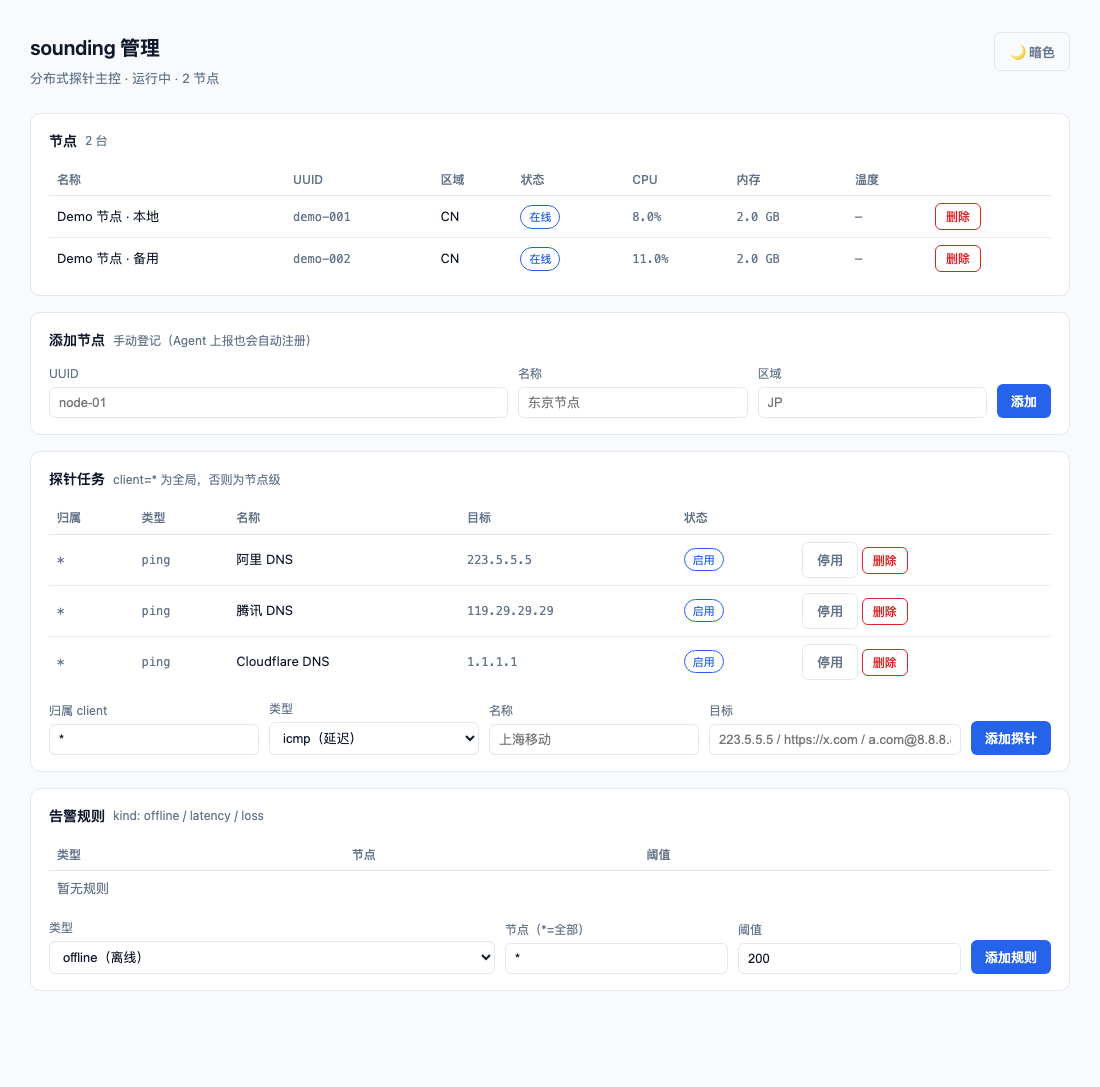
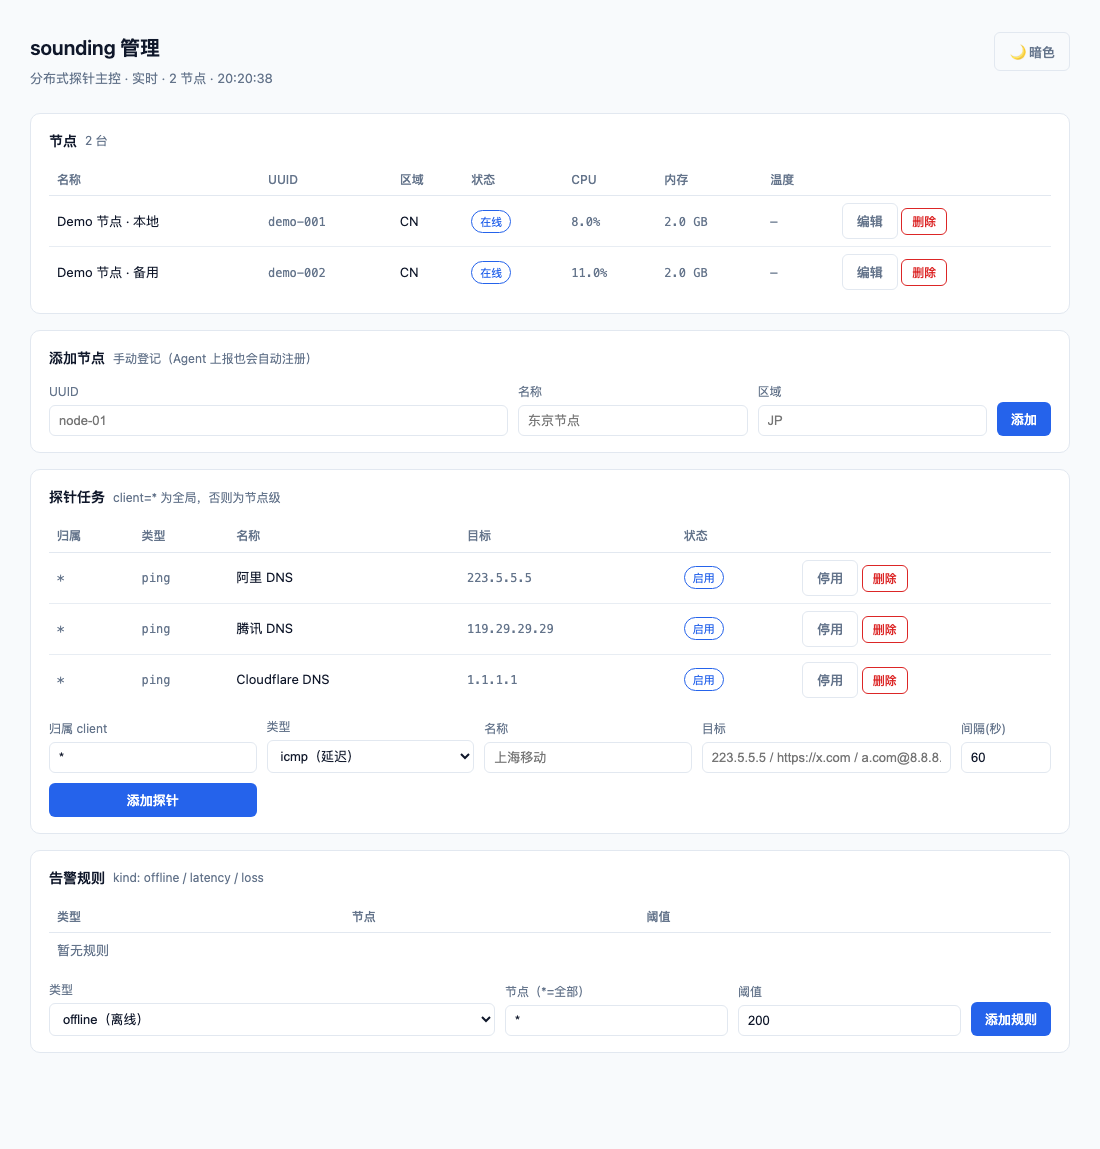
feat(①+②): 管理页 WS 实时推送（3s statuses+nodes，失败回退轮询）+ 节点编辑 + 探针间隔配置

diff --git a/internal/adminui/index.html b/internal/adminui/index.html
@@ -83,6 +83,7 @@
       </div>
       <div><label>名称</label><input id="p-name" placeholder="上海移动"></div>
       <div><label>目标</label><input id="p-target" placeholder="223.5.5.5 / https://x.com / a.com@8.8.8.8"></div>
+      <div><label>间隔(秒)</label><input id="p-interval" type="number" value="60" style="width:90px"></div>
       <button onclick="addProbe()">添加探针</button>
     </div>
     <div class="status" id="probe-status"></div>
@@ -128,18 +129,8 @@ function api(path, opts = {}) {
 async function loadNodes() {
   try {
     const d = await api('/api/admin/nodes');
-    const rows = Object.entries(d.nodes || {});
-    document.querySelector('#nodes tbody').innerHTML = rows.map(([uuid, n]) => {
-      const st = (d.statuses && d.statuses[uuid]) || {};
-      const cpu = st.cpu != null ? st.cpu.toFixed(1) + '%' : '—';
-      const ram = st.ram != null ? (st.ram / 1073741824).toFixed(1) + ' GB' : '—';
-      const temp = st.temp ? st.temp.toFixed(1) + '°C' : '—';
-      return `<tr><td>${n.name || '—'}</td><td><code>${uuid}</code></td><td>${n.region || '—'}</td>
-        <td>${st.online ? '<span class="tag on">在线</span>' : '<span class="tag">离线</span>'}</td><td><code>${cpu}</code></td><td><code>${ram}</code></td><td><code>${temp}</code></td>
-        <td><button class="danger" onclick="delNode('${uuid}')">删除</button></td></tr>`;
-    }).join('') || '<tr><td colspan="8" class="muted">暂无节点</td></tr>';
-    document.getElementById('nodeCount').textContent = rows.length + ' 台';
-    document.getElementById('stat').textContent = '运行中 · ' + rows.length + ' 节点';
+    renderNodes(d.nodes, d.statuses);
+    document.getElementById('stat').textContent = '运行中 · ' + Object.keys(d.nodes || {}).length + ' 节点';
   } catch (e) { document.getElementById('stat').textContent = '需要管理 Token'; }
 }
 async function loadProbes() {
@@ -162,12 +153,23 @@ async function loadAlerts() {
       || '<tr><td colspan="4" class="muted">暂无规则</td></tr>';
   } catch (e) {}
 }
+async function editNode(uuid) {
+  const d = await api('/api/admin/nodes');
+  const n = (d.nodes || {})[uuid];
+  if (!n) return;
+  document.getElementById('n-uuid').value = uuid;
+  document.getElementById('n-name').value = n.name || '';
+  document.getElementById('n-region').value = n.region || '';
+  document.getElementById('n-uuid').setAttribute('readonly', 'readonly');
+  document.getElementById('node-status').textContent = '编辑模式（修改后点添加保存）';
+}
 async function addNode() {
   const uuid = document.getElementById('n-uuid').value.trim();
   const name = document.getElementById('n-name').value.trim();
   if (!uuid || !name) return;
   await api('/api/admin/nodes', { method: 'POST', body: JSON.stringify({ uuid, name, region: document.getElementById('n-region').value.trim() }) });
-  document.getElementById('node-status').textContent = '✓ 已添加';
+  document.getElementById('node-status').textContent = '✓ 已保存';
+  document.getElementById('n-uuid').removeAttribute('readonly');
   loadNodes();
 }
 async function addProbe() {
@@ -175,7 +177,7 @@ async function addProbe() {
   const name = document.getElementById('p-name').value.trim();
   const target = document.getElementById('p-target').value.trim();
   if (!name || !target) return;
-  await api('/api/admin/probes', { method: 'POST', body: JSON.stringify({ client, name, target, type: document.getElementById('p-type').value, enabled: true }) });
+  await api('/api/admin/probes', { method: 'POST', body: JSON.stringify({ client, name, target, type: document.getElementById('p-type').value, interval_sec: Number(document.getElementById('p-interval').value) || 60, enabled: true }) });
   document.getElementById('probe-status').textContent = '✓ 已添加';
   loadProbes();
 }
@@ -205,8 +207,51 @@ async function delAlert(kind, node) {
   await api('/api/admin/alerts', { method: 'DELETE', body: JSON.stringify({ kind, node }) });
   loadAlerts();
 }
+// ===== 实时通道（WS 推送 statuses+nodes，失败回退轮询）=====
+let ws = null;
+let wsRetry = 0;
+function connectWS() {
+  try {
+    const proto = location.protocol === 'https:' ? 'wss:' : 'ws:';
+    ws = new WebSocket(proto + '//' + location.host + '/rpc2');
+    ws.onmessage = (ev) => {
+      try {
+        const msg = JSON.parse(ev.data);
+        if (msg.method === 'sounding.push' && msg.params) {
+          renderNodes(msg.params.nodes, msg.params.statuses);
+          document.getElementById('stat').textContent = '实时 · ' + Object.keys(msg.params.nodes || {}).length + ' 节点 · ' + new Date(msg.params.time).toLocaleTimeString();
+        }
+      } catch (e) {}
+    };
+    ws.onclose = () => {
+      ws = null;
+      wsRetry++;
+      if (wsRetry <= 5) setTimeout(connectWS, 3000);
+      else setInterval(loadNodes, 10000); // 长期失败回退轮询
+    };
+    ws.onerror = () => { if (ws) ws.close(); };
+  } catch (e) { setInterval(loadNodes, 10000); }
+}
+
+// 抽出渲染函数（WS 推送与 HTTP 加载共用）
+function renderNodes(nodes, statuses) {
+  const rows = Object.entries(nodes || {});
+  document.querySelector('#nodes tbody').innerHTML = rows.map(([uuid, n]) => {
+    const st = (statuses && statuses[uuid]) || {};
+    const cpu = st.cpu != null ? st.cpu.toFixed(1) + '%' : '—';
+    const ram = st.ram != null ? (st.ram / 1073741824).toFixed(1) + ' GB' : '—';
+    const temp = st.temp ? st.temp.toFixed(1) + '°C' : '—';
+    return `<tr><td>${n.name || '—'}</td><td><code>${uuid}</code></td><td>${n.region || '—'}</td>
+      <td>${st.online ? '<span class="tag on">在线</span>' : '<span class="tag">离线</span>'}</td>
+      <td><code>${cpu}</code></td><td><code>${ram}</code></td><td><code>${temp}</code></td>
+      <td><button class="ghost" onclick="editNode('${uuid}')">编辑</button>
+          <button class="danger" onclick="delNode('${uuid}')">删除</button></td></tr>`;
+  }).join('') || '<tr><td colspan="8" class="muted">暂无节点</td></tr>';
+  document.getElementById('nodeCount').textContent = rows.length + ' 台';
+}
+
 loadNodes(); loadProbes(); loadAlerts();
-setInterval(loadNodes, 10000);
+connectWS();
 </script>
 </body>
 </html>

diff --git a/internal/api/admin.go b/internal/api/admin.go
@@ -11,7 +11,7 @@ type AdminEndpoint struct {
 		AdminNodes() (map[string]Client, error)
 		AdminUpsertNode(n Client) error
 		AdminProbeTasks() ([]AdminProbe, error)
-		AdminUpsertProbe(client, target, name, typ string, enabled bool) error
+		AdminUpsertProbeInterval(client, target, name, typ string, intervalSec float64, enabled bool) error
 		AdminDeleteProbe(client, name string) error
 		AdminDeleteNode(uuid string) error
 		AdminProbeTaskNames(client string) ([]string, error)
@@ -46,7 +46,7 @@ func NewAdminEndpoint(s interface {
 	AdminNodes() (map[string]Client, error)
 	AdminUpsertNode(n Client) error
 	AdminProbeTasks() ([]AdminProbe, error)
-	AdminUpsertProbe(client, target, name, typ string, enabled bool) error
+	AdminUpsertProbeInterval(client, target, name, typ string, intervalSec float64, enabled bool) error
 	AdminDeleteProbe(client, name string) error
 	AdminDeleteNode(uuid string) error
 	AdminProbeTaskNames(client string) ([]string, error)
@@ -166,11 +166,12 @@ func (h *AdminEndpoint) ServeHTTP(w http.ResponseWriter, r *http.Request) {
 		}
 		if r.Method == http.MethodPost {
 			var p struct {
-				Client  string `json:"client"`
-				Target  string `json:"target"`
-				Name    string `json:"name"`
-				Type    string `json:"type"`
-				Enabled *bool  `json:"enabled"`
+				Client      string  `json:"client"`
+				Target      string  `json:"target"`
+				Name        string  `json:"name"`
+				Type        string  `json:"type"`
+				IntervalSec float64 `json:"interval_sec"`
+				Enabled     *bool   `json:"enabled"`
 			}
 			if err := json.NewDecoder(r.Body).Decode(&p); err != nil {
 				http.Error(w, "bad payload", http.StatusBadRequest)
@@ -180,7 +181,11 @@ func (h *AdminEndpoint) ServeHTTP(w http.ResponseWriter, r *http.Request) {
 			if p.Enabled != nil {
 				enabled = *p.Enabled
 			}
-			if err := h.store.AdminUpsertProbe(p.Client, p.Target, p.Name, p.Type, enabled); err != nil {
+			interval := p.IntervalSec
+			if interval <= 0 {
+				interval = 60
+			}
+			if err := h.store.AdminUpsertProbeInterval(p.Client, p.Target, p.Name, p.Type, interval, enabled); err != nil {
 				http.Error(w, err.Error(), http.StatusInternalServerError)
 				return
 			}

diff --git a/internal/store/adapters.go b/internal/store/adapters.go
@@ -259,18 +259,26 @@ func (s *Store) AdminProbeTasks() ([]api.AdminProbe, error) {
 	return out, rows.Err()
 }
 
-// AdminUpsertProbe 管理视角创建/更新探针（typ: icmp|tcp|http|dns）。
+// AdminUpsertProbe 管理视角创建/更新探针（默认 60s）。
 func (s *Store) AdminUpsertProbe(client, target, name, typ string, enabled bool) error {
+	return s.AdminUpsertProbeInterval(client, target, name, typ, 60, enabled)
+}
+
+// AdminUpsertProbeInterval 创建/更新探针（可指定间隔秒）。
+func (s *Store) AdminUpsertProbeInterval(client, target, name, typ string, intervalSec float64, enabled bool) error {
 	if typ == "" {
 		typ = "icmp"
+	}
+	if intervalSec <= 0 {
+		intervalSec = 60
 	}
 	e := 0
 	if enabled {
 		e = 1
 	}
-	_, err := s.db.Exec(`INSERT INTO probe_tasks (client, target, name, type, interval_sec, enabled) VALUES (?,?,?,?,60,?)
-		ON CONFLICT(client, name) DO UPDATE SET target=excluded.target, type=excluded.type, enabled=excluded.enabled`,
-		client, target, name, typ, e)
+	_, err := s.db.Exec(`INSERT INTO probe_tasks (client, target, name, type, interval_sec, enabled) VALUES (?,?,?,?,?,?)
+		ON CONFLICT(client, name) DO UPDATE SET target=excluded.target, type=excluded.type, interval_sec=excluded.interval_sec, enabled=excluded.enabled`,
+		client, target, name, typ, intervalSec, e)
 	return err
 }
 

diff --git a/internal/api/ws_push.go b/internal/api/ws_push.go
@@ -1,0 +1,55 @@
+package api
+
+import (
+	"encoding/json"
+	"log"
+	"time"
+
+	"github.com/gorilla/websocket"
+)
+
+// pushInterval 状态推送间隔。
+const pushInterval = 3 * time.Second
+
+// serveWSPush 连接建立后周期推送 getNodesLatestStatus（管理页/ink 实时化）。
+func (h *Handler) serveWSPush(conn *websocket.Conn, stop <-chan struct{}) {
+	t := time.NewTicker(pushInterval)
+	defer t.Stop()
+	for {
+		select {
+		case <-stop:
+			return
+		case <-t.C:
+			statuses, err := h.store.LatestStatus()
+			if err != nil {
+				continue
+			}
+			nodes, err2 := h.store.Nodes()
+			if err2 != nil {
+				continue
+			}
+			msg := map[string]any{
+				"jsonrpc": "2.0",
+				"method":  "sounding.push",
+				"params": map[string]any{
+					"statuses": statuses,
+					"nodes":    nodes,
+					"time":     time.Now().Format(time.RFC3339),
+				},
+			}
+			if err := conn.WriteJSON(msg); err != nil {
+				return
+			}
+		}
+	}
+}
+
+// startPush 在连接上启动推送协程。
+func (h *Handler) startPush(conn *websocket.Conn) chan struct{} {
+	stop := make(chan struct{})
+	go h.serveWSPush(conn, stop)
+	return stop
+}
+
+var _ = json.Marshal
+var _ = log.Printf

diff --git a/internal/api/ws.go b/internal/api/ws.go
@@ -22,6 +22,8 @@ func (h *Handler) ServeWS(w http.ResponseWriter, r *http.Request) {
 	}
 	defer conn.Close()
 	log.Printf("ws client connected: %s", r.RemoteAddr)
+	stop := h.startPush(conn)
+	defer close(stop)
 
 	for {
 		_, msg, err := conn.ReadMessage()
